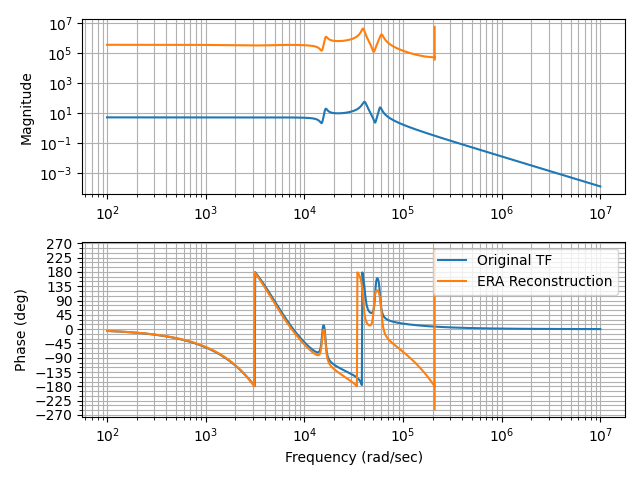
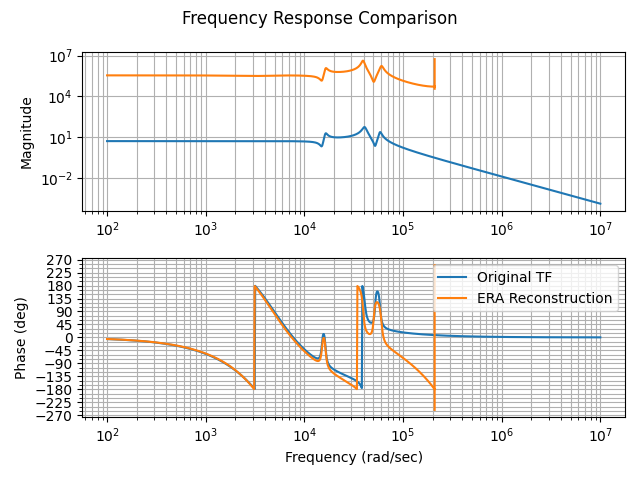
brief changes. magnitude discrepancy is still there

Changed region(s): [[0.0, 0.0312, 1.0, 0.875]]

diff --git a/4_era_implementation/era.py b/4_era_implementation/era.py
@@ -13,13 +13,13 @@ tau = 10e-4
 s = ct.tf('s')
 
 G_num_1 = k * omega[1]**2 * omega[2]**2 * omega[4]**2
-G_num_2 = s**2 + 2*zeta[0]*omega[0]*s + omega[0]**2
-G_num_3 = s**2 + 2*zeta[3]*omega[3]*s + omega[3]**2
+G_num_2 = s**2 + 2 * zeta[0] * omega[0] * s + omega[0]**2
+G_num_3 = s**2 + 2 * zeta[3] * omega[3] * s + omega[3]**2
 
 G_den_1 = omega[0]**2 * omega[3]**2
-G_den_2 = s**2 + 2*zeta[1]*omega[1]*s + omega[1]**2
-G_den_3 = s**2 + 2*zeta[2]*omega[2]*s + omega[2]**2
-G_den_4 = s**2 + 2*zeta[4]*omega[4]*s + omega[4]**2
+G_den_2 = s**2 + 2 * zeta[1] * omega[1] * s + omega[1]**2
+G_den_3 = s**2 + 2 * zeta[2] * omega[2] * s + omega[2]**2
+G_den_4 = s**2 + 2 * zeta[4] * omega[4] * s + omega[4]**2
 
 # the ctrl systems library doesn't support time delays directly, but we can use a pade approximation!
 # (hell of a time to learn these existed)
@@ -61,15 +61,20 @@ except FileNotFoundError:
     np.save("svd_store/svdeez_vh.npy", Vh)
     print("SVD components stored for future use.")
 
-SV = np.diag(S)
+r = np.shape(U)[0]
 
-A = sc.linalg.fractional_matrix_power(SV, -0.5) @ U.T @ marie_schrader @ Vh.T @ sc.linalg.fractional_matrix_power(SV, -0.5)
-B = (sc.linalg.fractional_matrix_power(SV, 0.5) @ Vh[:, 0]).reshape(-1, 1)
-C = U[0, :] @ sc.linalg.fractional_matrix_power(SV, 0.5)
+Ur = U[:, :r]
+SVr = np.diag(S[:r])
+Vr = (Vh.T)[:, :r]
+
+A = sc.linalg.fractional_matrix_power(SVr, -0.5) @ Ur.T @ marie_schrader @ Vr @ sc.linalg.fractional_matrix_power(SVr, -0.5)
+B = (sc.linalg.fractional_matrix_power(SVr, 0.5) @ (Vr.T)[:, 0]).reshape(-1, 1)
+C = Ur[0, :] @ sc.linalg.fractional_matrix_power(SVr, 0.5)
 
 G_new = ct.ss(A, B, C, 0, T[1])
 ct.bode_plot([G, G_new], wrap_phase = True)
 plt.legend(['Original TF', 'ERA Reconstruction'])
+plt.suptitle('Frequency Response Comparison')
 plt.tight_layout()
 plt.savefig("era_figs/freq_responses_compared.png")
 plt.show()
